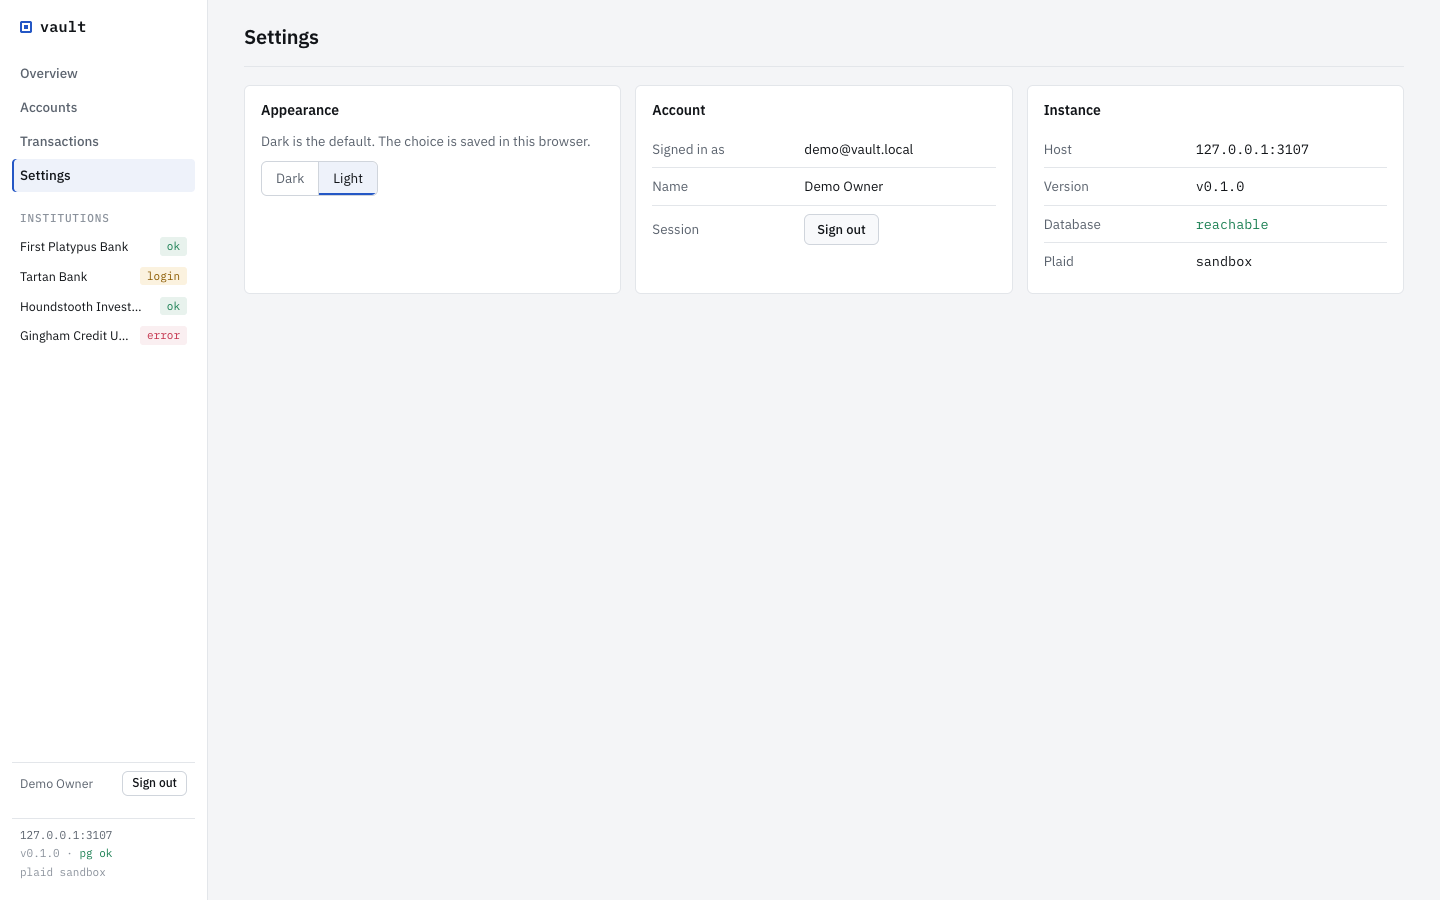
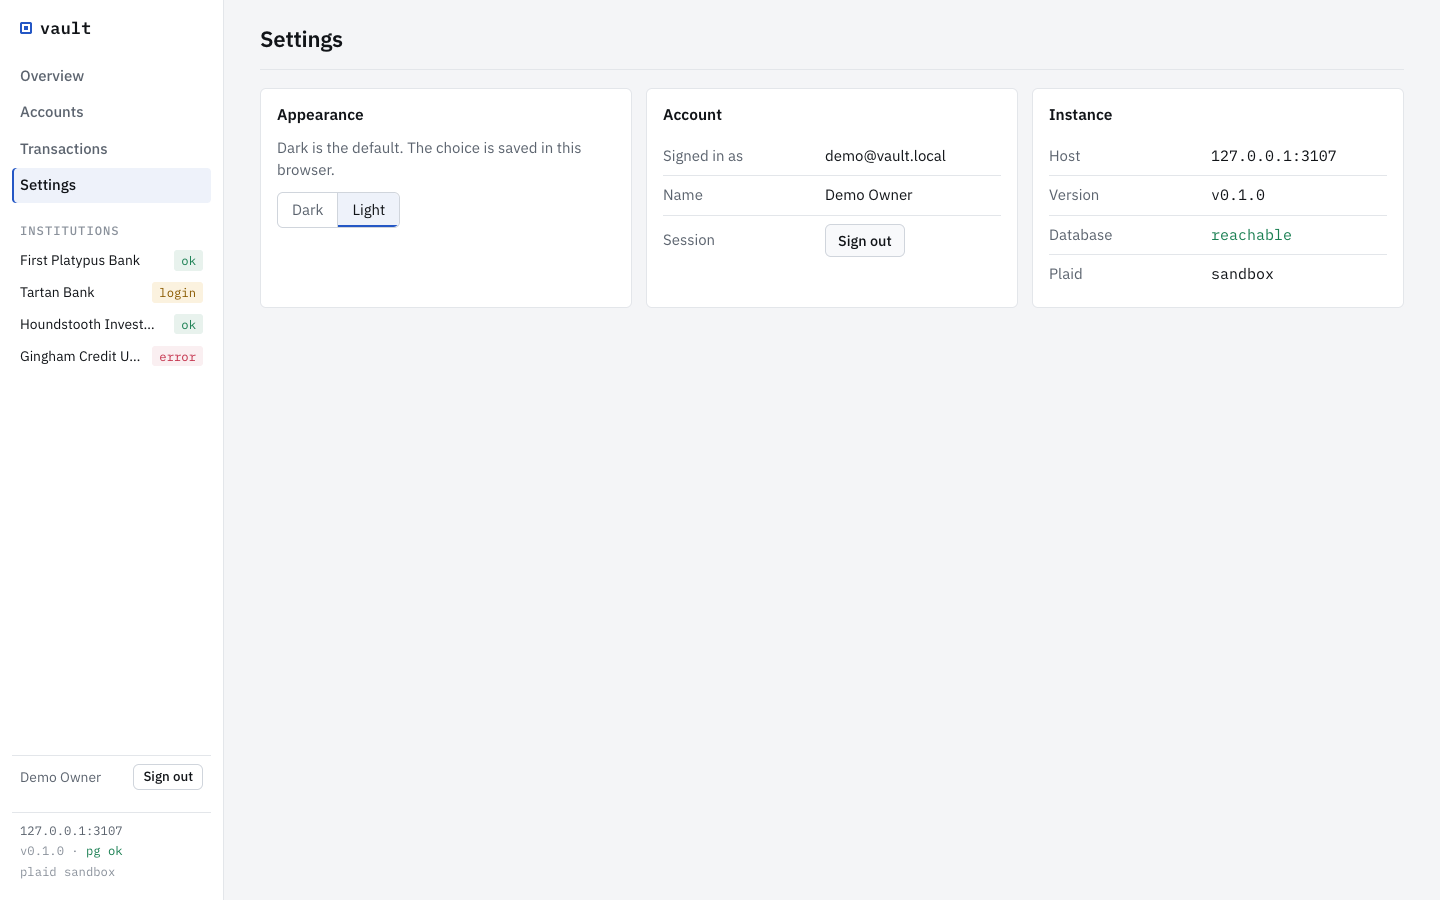
Increase type size across the app
All font sizes now derive from one --type-scale token (1.11x: body 13.5px -> 15px, with
labels, table cells, nav, headings, mono numbers, and the net-worth figure scaled the
same way). Table cells, the sidebar, the sign-in card, and the settings label column grow
slightly to keep the same density. README screenshots refreshed.

diff --git a/app/globals.css b/app/globals.css
@@ -54,12 +54,30 @@
 :root {
   --font-sans: var(--font-plex-sans), system-ui, -apple-system, "Segoe UI", sans-serif;
   --font-mono: var(--font-plex-mono), ui-monospace, SFMono-Regular, Menlo, monospace;
+  /*
+   * Type scale. Every font size derives from --type-scale, so the whole
+   * interface grows or shrinks together; the px values are the 1x sizes.
+   */
+  --type-scale: 1.11;
+  --text-3xs: calc(10.5px * var(--type-scale));
+  --text-2xs: calc(11px * var(--type-scale));
+  --text-xs: calc(11.5px * var(--type-scale));
+  --text-sm: calc(12px * var(--type-scale));
+  --text-md: calc(12.5px * var(--type-scale));
+  --text-num: calc(13px * var(--type-scale));
+  --text: calc(13.5px * var(--type-scale));
+  --text-h2: calc(14px * var(--type-scale));
+  --text-brand: calc(15px * var(--type-scale));
+  --text-lg: calc(16px * var(--type-scale));
+  --text-xl: calc(18px * var(--type-scale));
+  --text-h1: calc(20px * var(--type-scale));
+  --text-figure-sm: calc(26px * var(--type-scale));
+  --text-figure: calc(30px * var(--type-scale));
   /* Comfortable density. */
-  --text: 13.5px;
-  --cell-y: 9px;
-  --cell-x: 12px;
+  --cell-y: 10px;
+  --cell-x: 13px;
   --radius: 6px;
-  --sidebar: 208px;
+  --sidebar: 224px;
 }
 
 * {
@@ -82,18 +100,18 @@ body {
 }
 
 h1 {
-  font-size: 20px;
+  font-size: var(--text-h1);
   font-weight: 600;
   letter-spacing: -0.01em;
 }
 
 h2 {
-  font-size: 14px;
+  font-size: var(--text-h2);
   font-weight: 600;
 }
 
 h3 {
-  font-size: 13.5px;
+  font-size: var(--text);
   font-weight: 600;
 }
 
@@ -126,7 +144,7 @@ code {
 }
 
 .hint {
-  font-size: 12.5px;
+  font-size: var(--text-md);
   color: var(--muted);
 }
 
@@ -163,7 +181,7 @@ code {
 
 .button {
   font: inherit;
-  font-size: 13px;
+  font-size: var(--text-num);
   font-weight: 500;
   line-height: 1.2;
   padding: 7px 12px;
@@ -190,13 +208,13 @@ code {
 }
 
 .button.subtle {
-  font-size: 12px;
+  font-size: var(--text-sm);
   padding: 4px 9px;
   background: transparent;
 }
 
 .button.small {
-  font-size: 12px;
+  font-size: var(--text-sm);
   padding: 4px 10px;
 }
 
@@ -226,7 +244,7 @@ code {
 .tag {
   display: inline-block;
   font-family: var(--font-mono);
-  font-size: 11px;
+  font-size: var(--text-2xs);
   line-height: 1.5;
   padding: 0 6px;
   border-radius: 3px;
@@ -254,7 +272,7 @@ code {
 
 .badge {
   display: inline-block;
-  font-size: 11px;
+  font-size: var(--text-2xs);
   padding: 0 6px;
   margin-left: 6px;
   border-radius: 3px;
@@ -292,7 +310,7 @@ code {
   gap: 8px;
   font-family: var(--font-mono);
   font-weight: 600;
-  font-size: 15px;
+  font-size: var(--text-brand);
   letter-spacing: 0.02em;
   color: var(--ink);
   padding: 0 8px;
@@ -346,7 +364,7 @@ code {
 
 .sidebar-heading {
   font-family: var(--font-mono);
-  font-size: 11px;
+  font-size: var(--text-2xs);
   font-weight: 500;
   text-transform: uppercase;
   letter-spacing: 0.08em;
@@ -369,7 +387,7 @@ code {
   padding: 5px 8px;
   border-radius: 4px;
   color: var(--ink);
-  font-size: 12.5px;
+  font-size: var(--text-md);
 }
 
 .institution-link:hover {
@@ -385,7 +403,7 @@ code {
 
 .sidebar-empty {
   padding: 0 8px;
-  font-size: 12.5px;
+  font-size: var(--text-md);
   color: var(--faint);
 }
 
@@ -397,7 +415,7 @@ code {
   gap: 8px;
   padding: 8px;
   border-top: 1px solid var(--line);
-  font-size: 12.5px;
+  font-size: var(--text-md);
 }
 
 .user-label {
@@ -414,7 +432,7 @@ code {
   padding: 8px;
   border-top: 1px solid var(--line);
   font-family: var(--font-mono);
-  font-size: 11px;
+  font-size: var(--text-2xs);
   color: var(--faint);
 }
 
@@ -503,7 +521,7 @@ code {
 }
 
 .section-link {
-  font-size: 12.5px;
+  font-size: var(--text-md);
 }
 
 table {
@@ -521,7 +539,7 @@ td {
 
 thead th {
   font-family: var(--font-mono);
-  font-size: 11px;
+  font-size: var(--text-2xs);
   font-weight: 500;
   text-transform: uppercase;
   letter-spacing: 0.06em;
@@ -540,7 +558,7 @@ tbody:last-of-type tr:last-child > * {
 }
 
 td.num {
-  font-size: 13px;
+  font-size: var(--text-num);
 }
 
 /* ---------- Overview ---------- */
@@ -567,14 +585,14 @@ td.num {
 .label,
 .networth-facts dt {
   font-family: var(--font-mono);
-  font-size: 11px;
+  font-size: var(--text-2xs);
   text-transform: uppercase;
   letter-spacing: 0.08em;
   color: var(--faint);
 }
 
 .networth-figure {
-  font-size: 30px;
+  font-size: var(--text-figure);
   font-weight: 500;
   letter-spacing: -0.02em;
   line-height: 1.2;
@@ -587,7 +605,7 @@ td.num {
 }
 
 .networth-facts dd {
-  font-size: 13px;
+  font-size: var(--text-num);
 }
 
 .networth-bar {
@@ -634,7 +652,7 @@ td.num {
 .balance-table caption {
   text-align: left;
   font-family: var(--font-mono);
-  font-size: 11px;
+  font-size: var(--text-2xs);
   font-weight: 500;
   text-transform: uppercase;
   letter-spacing: 0.08em;
@@ -650,7 +668,7 @@ td.num {
 }
 
 .balance-table .group-row th {
-  font-size: 12.5px;
+  font-size: var(--text-md);
 }
 
 .balance-table td.line-name {
@@ -659,7 +677,7 @@ td.num {
 
 .line-inst {
   display: block;
-  font-size: 12px;
+  font-size: var(--text-sm);
 }
 
 .balance-table tfoot > tr > * {
@@ -688,7 +706,7 @@ td.num {
 
 .balance-total strong {
   color: var(--ink);
-  font-size: 16px;
+  font-size: var(--text-lg);
   font-weight: 600;
 }
 
@@ -738,7 +756,7 @@ td.num {
 }
 
 .sync-time {
-  font-size: 12px;
+  font-size: var(--text-sm);
   margin-right: auto;
 }
 
@@ -804,7 +822,7 @@ td.num {
   display: grid;
   place-items: center;
   font-family: var(--font-mono);
-  font-size: 12px;
+  font-size: var(--text-sm);
   border-radius: 50%;
   border: 1px solid var(--line-strong);
   color: var(--faint);
@@ -854,7 +872,7 @@ td.num {
 
 .settings-list > div {
   display: grid;
-  grid-template-columns: 140px minmax(0, 1fr);
+  grid-template-columns: 150px minmax(0, 1fr);
   align-items: center;
   gap: 12px;
   padding: 8px 0;
@@ -924,7 +942,7 @@ td.num {
 
 .instance-card {
   width: 100%;
-  max-width: 380px;
+  max-width: 410px;
   background: var(--surface);
   border: 1px solid var(--line-strong);
   border-radius: 8px;
@@ -950,7 +968,7 @@ td.num {
   display: inline-flex;
   align-items: center;
   gap: 8px;
-  font-size: 11.5px;
+  font-size: var(--text-xs);
   min-width: 0;
 }
 
@@ -1003,7 +1021,7 @@ td.num {
 }
 
 .instance-card-body h1 {
-  font-size: 18px;
+  font-size: var(--text-xl);
 }
 
 .auth-form {
@@ -1015,7 +1033,7 @@ td.num {
 
 .auth-trust {
   font-family: var(--font-mono);
-  font-size: 11px;
+  font-size: var(--text-2xs);
   color: var(--faint);
   text-align: center;
 }
@@ -1027,7 +1045,7 @@ td.num {
 }
 
 .field label {
-  font-size: 12.5px;
+  font-size: var(--text-md);
   font-weight: 500;
   color: var(--muted);
 }
@@ -1053,7 +1071,7 @@ td.num {
 
 .field-error,
 .form-error {
-  font-size: 12.5px;
+  font-size: var(--text-md);
   color: var(--negative);
 }
 
@@ -1065,7 +1083,7 @@ td.num {
 }
 
 .switch {
-  font-size: 12.5px;
+  font-size: var(--text-md);
   text-align: center;
 }
 
@@ -1101,7 +1119,7 @@ td.num {
 
   .txn-table .day-row > th {
     font-family: var(--font-mono);
-    font-size: 11px;
+    font-size: var(--text-2xs);
     font-weight: 500;
     text-transform: uppercase;
     letter-spacing: 0.06em;
@@ -1148,7 +1166,7 @@ td.num {
 
   .txn-table .txn-cat {
     grid-area: cat;
-    font-size: 12px;
+    font-size: var(--text-sm);
     white-space: nowrap;
   }
 
@@ -1159,7 +1177,7 @@ td.num {
 
   .txn-table .txn-acct {
     grid-area: acct;
-    font-size: 12px;
+    font-size: var(--text-sm);
     overflow: hidden;
     text-overflow: ellipsis;
     white-space: nowrap;
@@ -1194,7 +1212,7 @@ td.num {
   }
 
   .accounts-table .acct-type {
-    font-size: 12px;
+    font-size: var(--text-sm);
     margin-bottom: 4px;
   }
 
@@ -1206,7 +1224,7 @@ td.num {
     content: attr(data-label);
     display: block;
     font-family: var(--font-mono);
-    font-size: 10.5px;
+    font-size: var(--text-3xs);
     text-transform: uppercase;
     letter-spacing: 0.06em;
     color: var(--faint);
@@ -1272,7 +1290,7 @@ td.num {
   }
 
   .networth-figure {
-    font-size: 26px;
+    font-size: var(--text-figure-sm);
   }
 
   /* Reconnect line: tag, then the message, then the button, each on its own line. */
